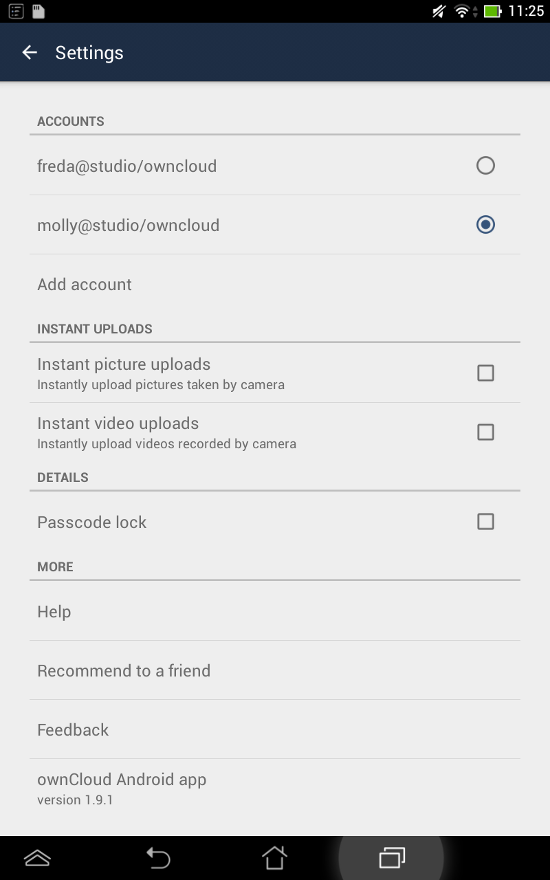
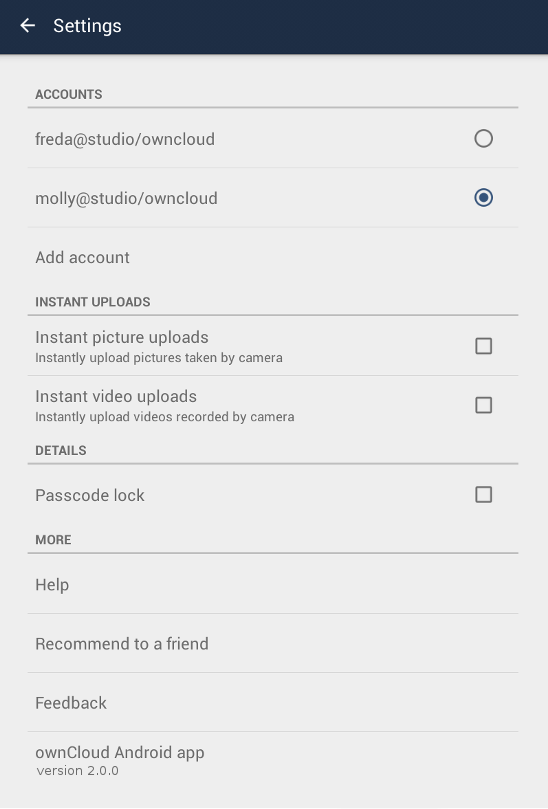
updates for 2.0 release

diff --git a/user_manual/conf.py b/user_manual/conf.py
@@ -43,13 +43,13 @@ source_suffix = '.rst'
 master_doc = 'index'
 
 # The short X.Y version.
-version = '1.9.1'
+version = '2.0'
 # The full version, including alpha/beta/rc tags.
-release = '1.9.1'
+release = '2.0'
 
 # General information about the project.
 project = u'ownCloud Android App %s Manual' % (version)
-copyright = u'2013-2015, The ownCloud developers'
+copyright = u'2013-2016, The ownCloud developers'
 
 # The version info for the project you're documenting, acts as replacement for
 # |version| and |release|, also used in various other places throughout the

diff --git a/user_manual/android_app.rst b/user_manual/android_app.rst
@@ -15,19 +15,19 @@ some advantages over the Web interface:
 * Easily add files from your device to ownCloud
 * Two-factor authentication
 
-New In Version 1.9.1
---------------------
+New In Version 2.0
+------------------
 
 This release contains a number of improvements, including:
 
-* Set and edit permissions on internal shared data.
-* Instant uploads: avoid file duplications, set policy in app settings.
-* Control duplication of files uploaded via **Upload** button.
-* Select view mode: either list or grid per folder.
-* More buttons and checkboxes for faster operations.
-* Fixed battery drain in automatic synchronization.
-* Security fixes related to passcode.
-* Wording fixes.
+* View status of uploads and manage failures
+* Federated sharing is now supported with users on ownCloud servers
+* UI improvements, following Material Design lines
+* Share-by-link folders are editable
+* Instant uploads automatically stop when Wifi connection is interrupted
+* Server certificate warnings are supported
+* Improvement when other apps send files to ownCloud
+* Bug fixes
 
 Upgrading
 ---------
@@ -50,7 +50,6 @@ with a download link to the ownCloud app in the `Google Play store
 <https://play.google.com/store/apps/details?id=com.owncloud.android>`_.
 
 .. figure:: images/android-1.png
-   :scale: 75% 
    :alt: Android app new account welcome screen.
 
 You will also find these links on your Personal page in the ownCloud Web interface.
@@ -70,7 +69,6 @@ button. (Click the eyeball to the right of your password to expose your
 password.)
 
 .. figure:: images/android-2.png
-   :scale: 75% 
    :alt: New account creation screen.
 
 For best security your ownCloud server should be SSL-enabled, so that you can 
@@ -86,14 +84,23 @@ setup.
 Managing Files
 --------------
 
-Now you should see the Files page of your ownCloud account. 
+Now you should see the Files page of your ownCloud account. Note some 
+differences from the previous release: click the blue button at the bottom 
+right to expose the **Upload**, **Content from other apps**, and **New folder** 
+buttons.
 
-.. figure:: images/android-4.png
-   :scale: 75% 
+Use the **Upload** button to add files to your ownCloud account from your 
+Android filesystem. Use **Content from other apps** to upload files from 
+Android apps, such as the Gallery app.
+
+.. figure:: images/android-4.png 
    :alt: Your ownCloud Files page.
 
 The ownCloud menu at the top left shows the name of the logged-in user, has a 
-shortcut to your files, and contains the Settings button.
+shortcut to your files, the **Uploads** button, and the **Settings** button.
+
+The Uploads page contains a list of your recently-uploaded files, and a Retry 
+option for any failed uploads.
 
 .. figure:: images/android-5.png
    :alt: Top-left menu.
@@ -106,71 +113,67 @@ gives you the option to sort your files by date, or alphabetically.
 .. figure:: images/android-6.png
    :alt: Top-right menu.
 
-The little file folder icon to the left of the overflow button opens a dialog to 
-create a new folder. The arrow button opens a file upload dialog, and you can 
-either upload content from other Android apps such as Google Drive, the Gallery, 
-your music player, or from your Android filesystem.
-
-.. figure:: images/android-7.png
-   :scale: 75%
-   :alt: File upload dialogue.
-
 All files (that you have permission to access) on your ownCloud server are 
 displayed in your Android app, but are not downloaded until you click on them. 
 Downloaded files are marked with a green arrow.
 
 .. figure:: images/android-8.png
-   :scale: 75%
    :alt: Downloaded files are marked with green arrows.
 
 Download and view a file with a short press on the filename.  Then a short 
 press on the overflow button opens a menu with options for managing your file.
 
 .. figure:: images/android-9.png
-   :scale: 75%
    :alt: File management options. Betsy Ross says "Don't believe everything you 
     read on the Internet."
    
 When you are on your main Files page, a long press on any file or folder 
-displays a list of options: Share, Open With, Synchronize, Rename, Move, Copy, 
-Remove, Send, Favorite, and Details.
+displays a list of options: **Share**, **Open With**, **Synchronize**, 
+**Rename**, **Move**, **Copy**, **Remove**, **Send**, **Favorite**, and 
+**Details**.
 
 .. figure:: images/android-11.png
-   :scale: 75%
    :alt: Folder and file management options.
    
-Click Share to share files. You can share with other ownCloud users, and create 
-public share links. If your ownCloud server administrator has enabled username 
-auto-completion, when you start typing user or group names they will 
-auto-complete. After you have shared files, click the Share button to see who 
-you have shared with, and to remove shares.
+Click **Share** to share files. You can share with other ownCloud users and 
+groups, and create public share links. If your ownCloud server administrator 
+has enabled username auto-completion, when you start typing user or group names 
+they will auto-complete. After you have shared files, click the **Share** button 
+to see who you have shared with, and to remove shares.
 
 .. figure:: images/android-12.png
-   :scale: 75%
    :alt: Sharing files.
+   
+Create a Federated share link by clicking **Add User or Group** and entering 
+the username and remote URL of the person you want to share with in this 
+format: user@domain.com. You don't have to guess; the Personal page in the 
+ownCloud Web GUI tells the exact Federated Cloud ID. Just ask them to copy and 
+paste and send it to you.
+
+.. figure:: images/android-14.png
+   :alt: Federated share creation.
    
 Settings
 --------
 
-Use the Settings screen to control your ownCloud app functions.
+Use the **Settings** screen to control your ownCloud app functions. 
 
 .. figure:: images/android-10.png
-   :scale: 75%
    :alt: Setting screen.
 
-In the Accounts section you can set up and manage multiple accounts.
+In the **Accounts** section you can set up and manage multiple accounts.
 
-The Security section sets up strong two-factor authentication by allowing you 
-to add a PIN (personal identification number) to access your account.  
+The **Security** section sets up strong two-factor authentication by allowing 
+you to add a PIN (personal identification number) to access your account.  
 
-The Instant Uploads section creates a directory, :file:`/InstantUpload`, and any 
-photos or videos created with your Android device's camera are instantly 
+The **Instant Uploads** section creates a directory, :file:`/InstantUpload`, and 
+any photos or videos created with your Android device's camera are instantly 
 uploaded to this directory. You also have the option to choose any other 
-existing directory, or to create a new one. Another nice option is Upload 
-Pictures/Video via WiFi Only, to conserve your mobile data usage.
+existing directory, or to create a new one. Another nice option is **Upload 
+Pictures/Video via WiFi Only**, to conserve your mobile data usage.
 
-The bottom section of the Settings screen has links to Help, Recommend to a 
-friend, Feedback, and the version number.
+The bottom section of the **Settings** screen has links to **Help**, 
+**Recommend to a friend**, **Feedback**, and the version number.
 
 Removing/Logging Out
 --------------------
